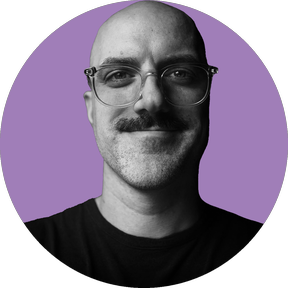
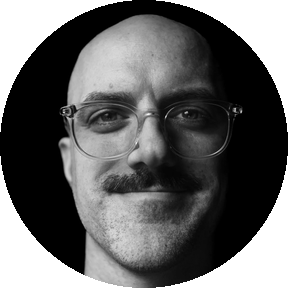
Email signature: black-and-white face-centered headshot; title adds Advocate

diff --git a/signature/email-signature.html b/signature/email-signature.html
@@ -6,7 +6,7 @@
     </td>
     <td style="padding:0 0 0 14px;vertical-align:middle;border-left:2px solid #3d2459;">
       <div style="font-size:18px;font-weight:bold;line-height:1.2;color:#1a1a1a;">Chris Graham</div>
-      <div style="font-family:Arial,Helvetica,sans-serif;font-size:12px;letter-spacing:1.5px;text-transform:uppercase;color:#3d2459;font-weight:bold;padding-top:3px;">AI Strategy Coach</div>
+      <div style="font-family:Arial,Helvetica,sans-serif;font-size:12px;letter-spacing:1.5px;text-transform:uppercase;color:#3d2459;font-weight:bold;padding-top:3px;">AI Strategy Coach &amp; Advocate</div>
       <div style="font-family:Arial,Helvetica,sans-serif;font-size:13px;line-height:1.4;color:#5b5566;padding-top:6px;max-width:380px;">Trusted by Emmy, Grammy, Oscar &amp; Tony winners, state legislators, lobbyists &amp; business leaders.</div>
       <div style="font-family:Arial,Helvetica,sans-serif;font-size:13px;padding-top:6px;">
         <a href="https://chrisgraham.com" style="color:#3d2459;text-decoration:none;font-weight:bold;">ChrisGraham.com</a>
